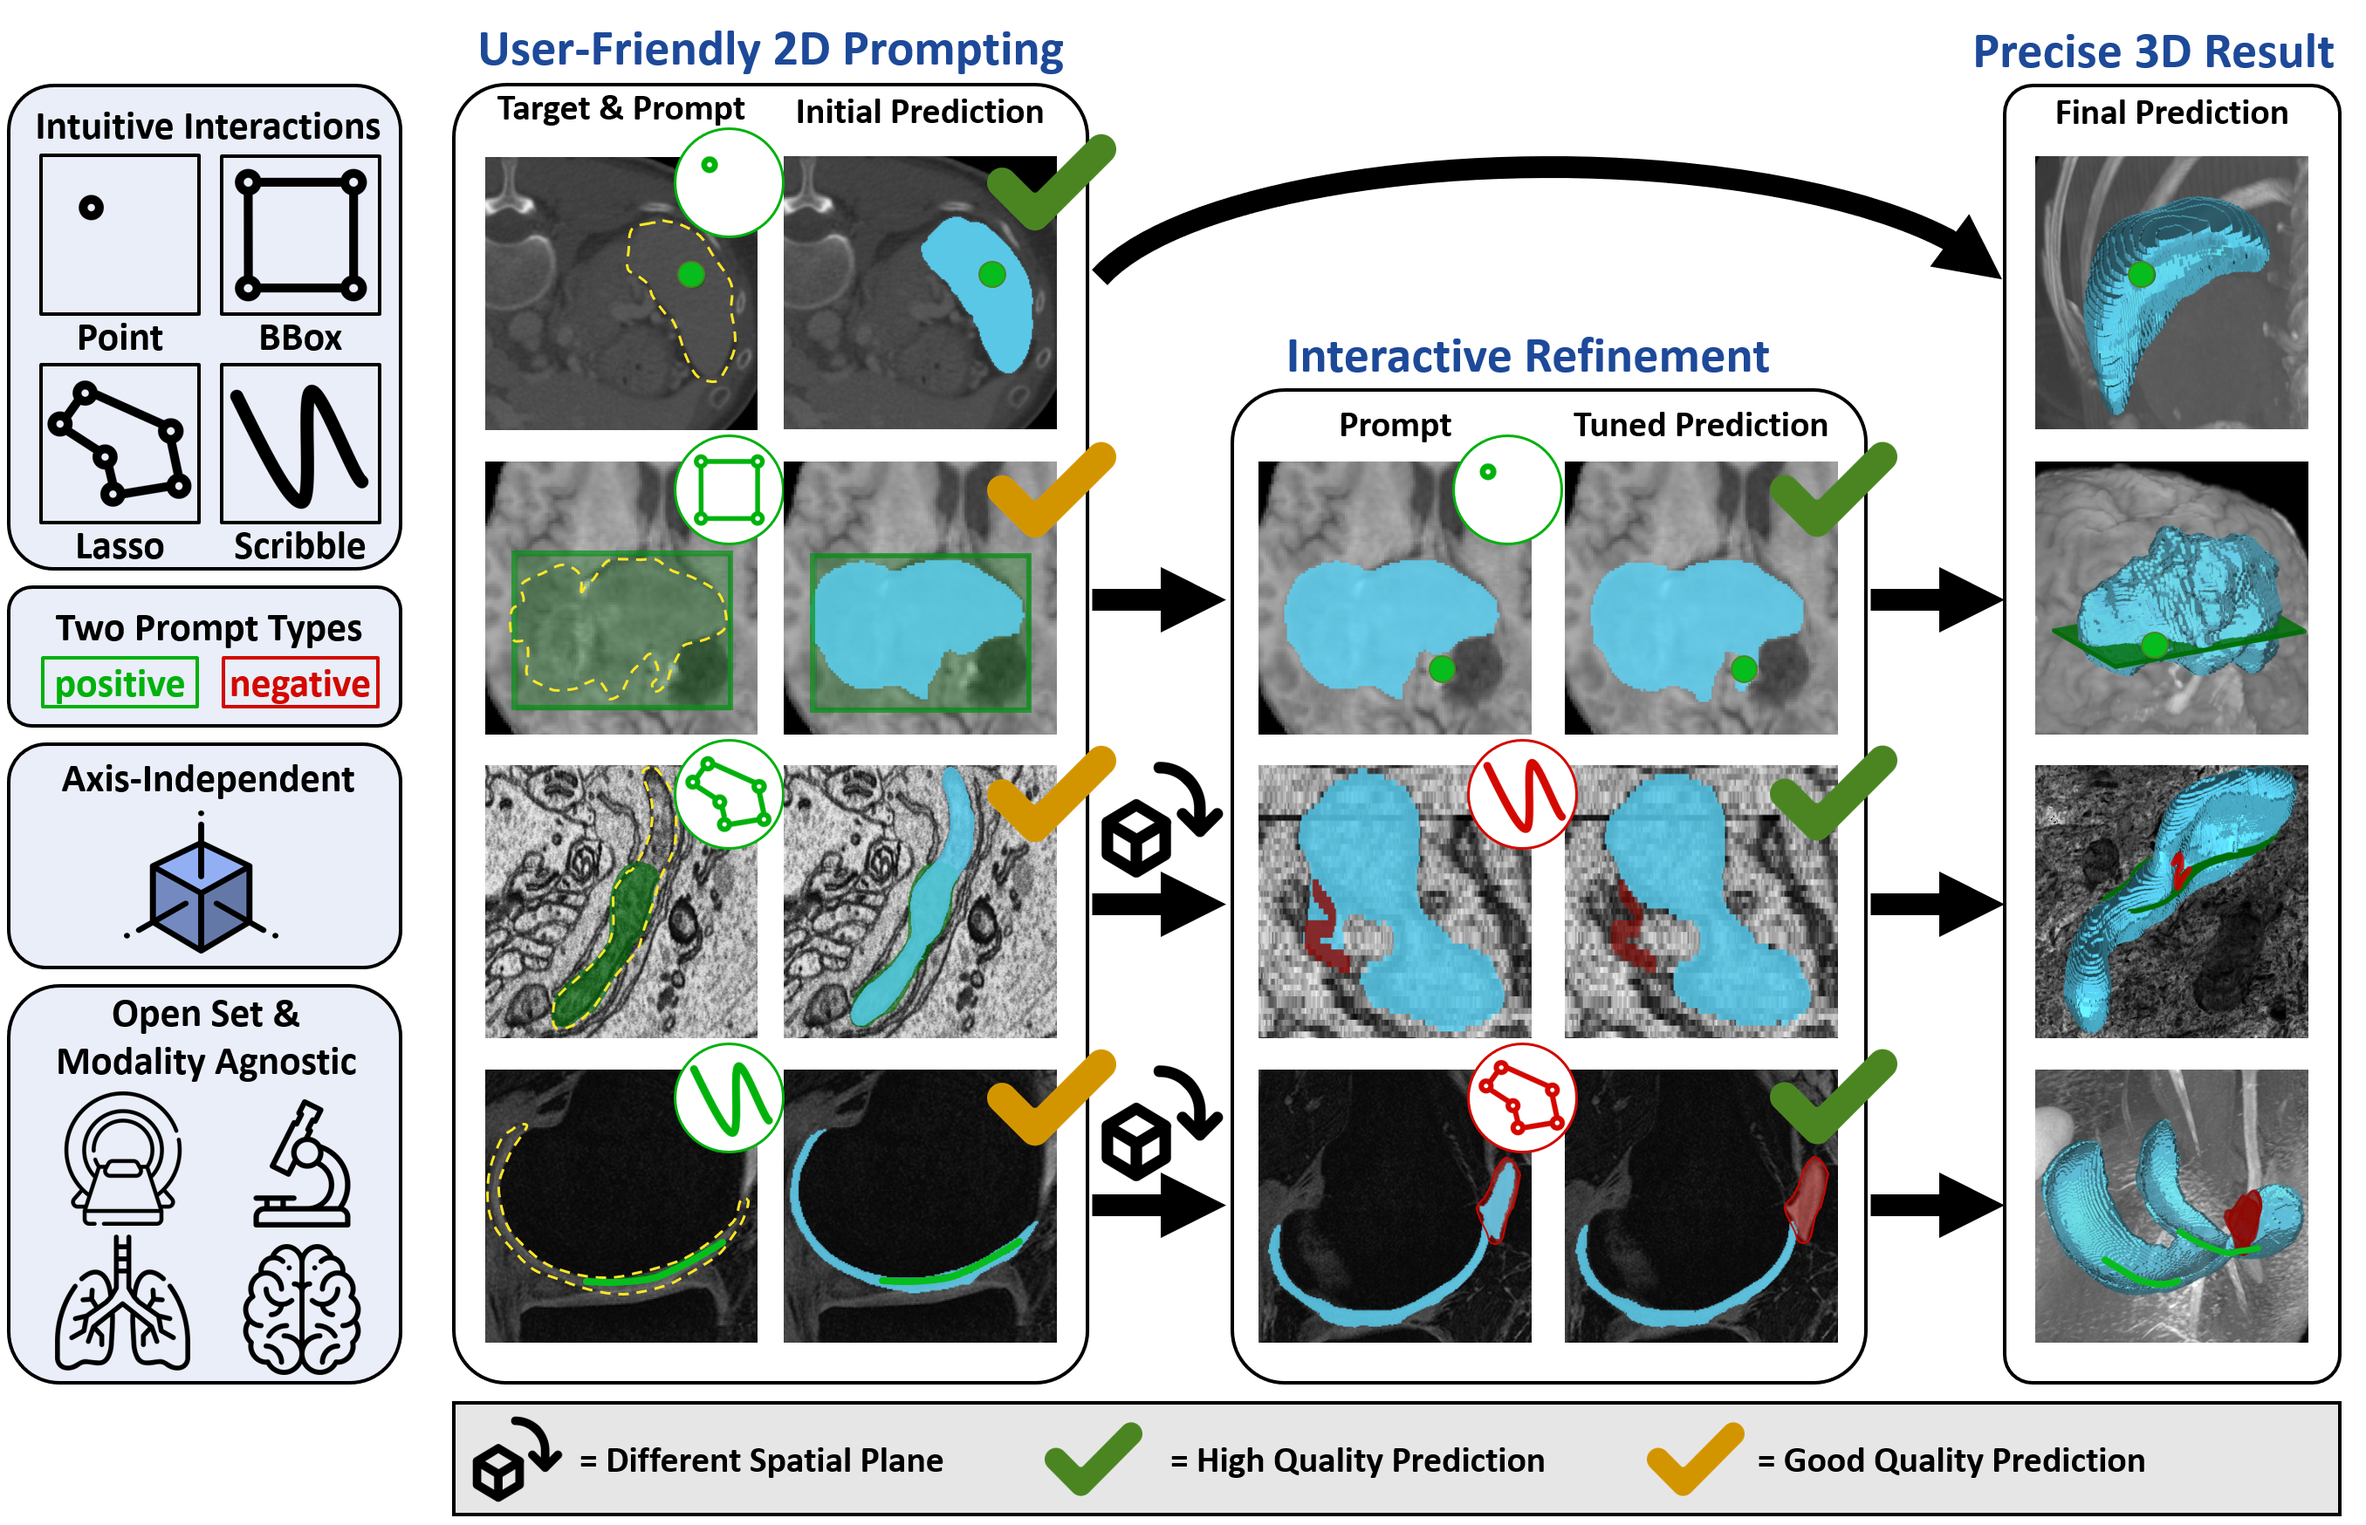
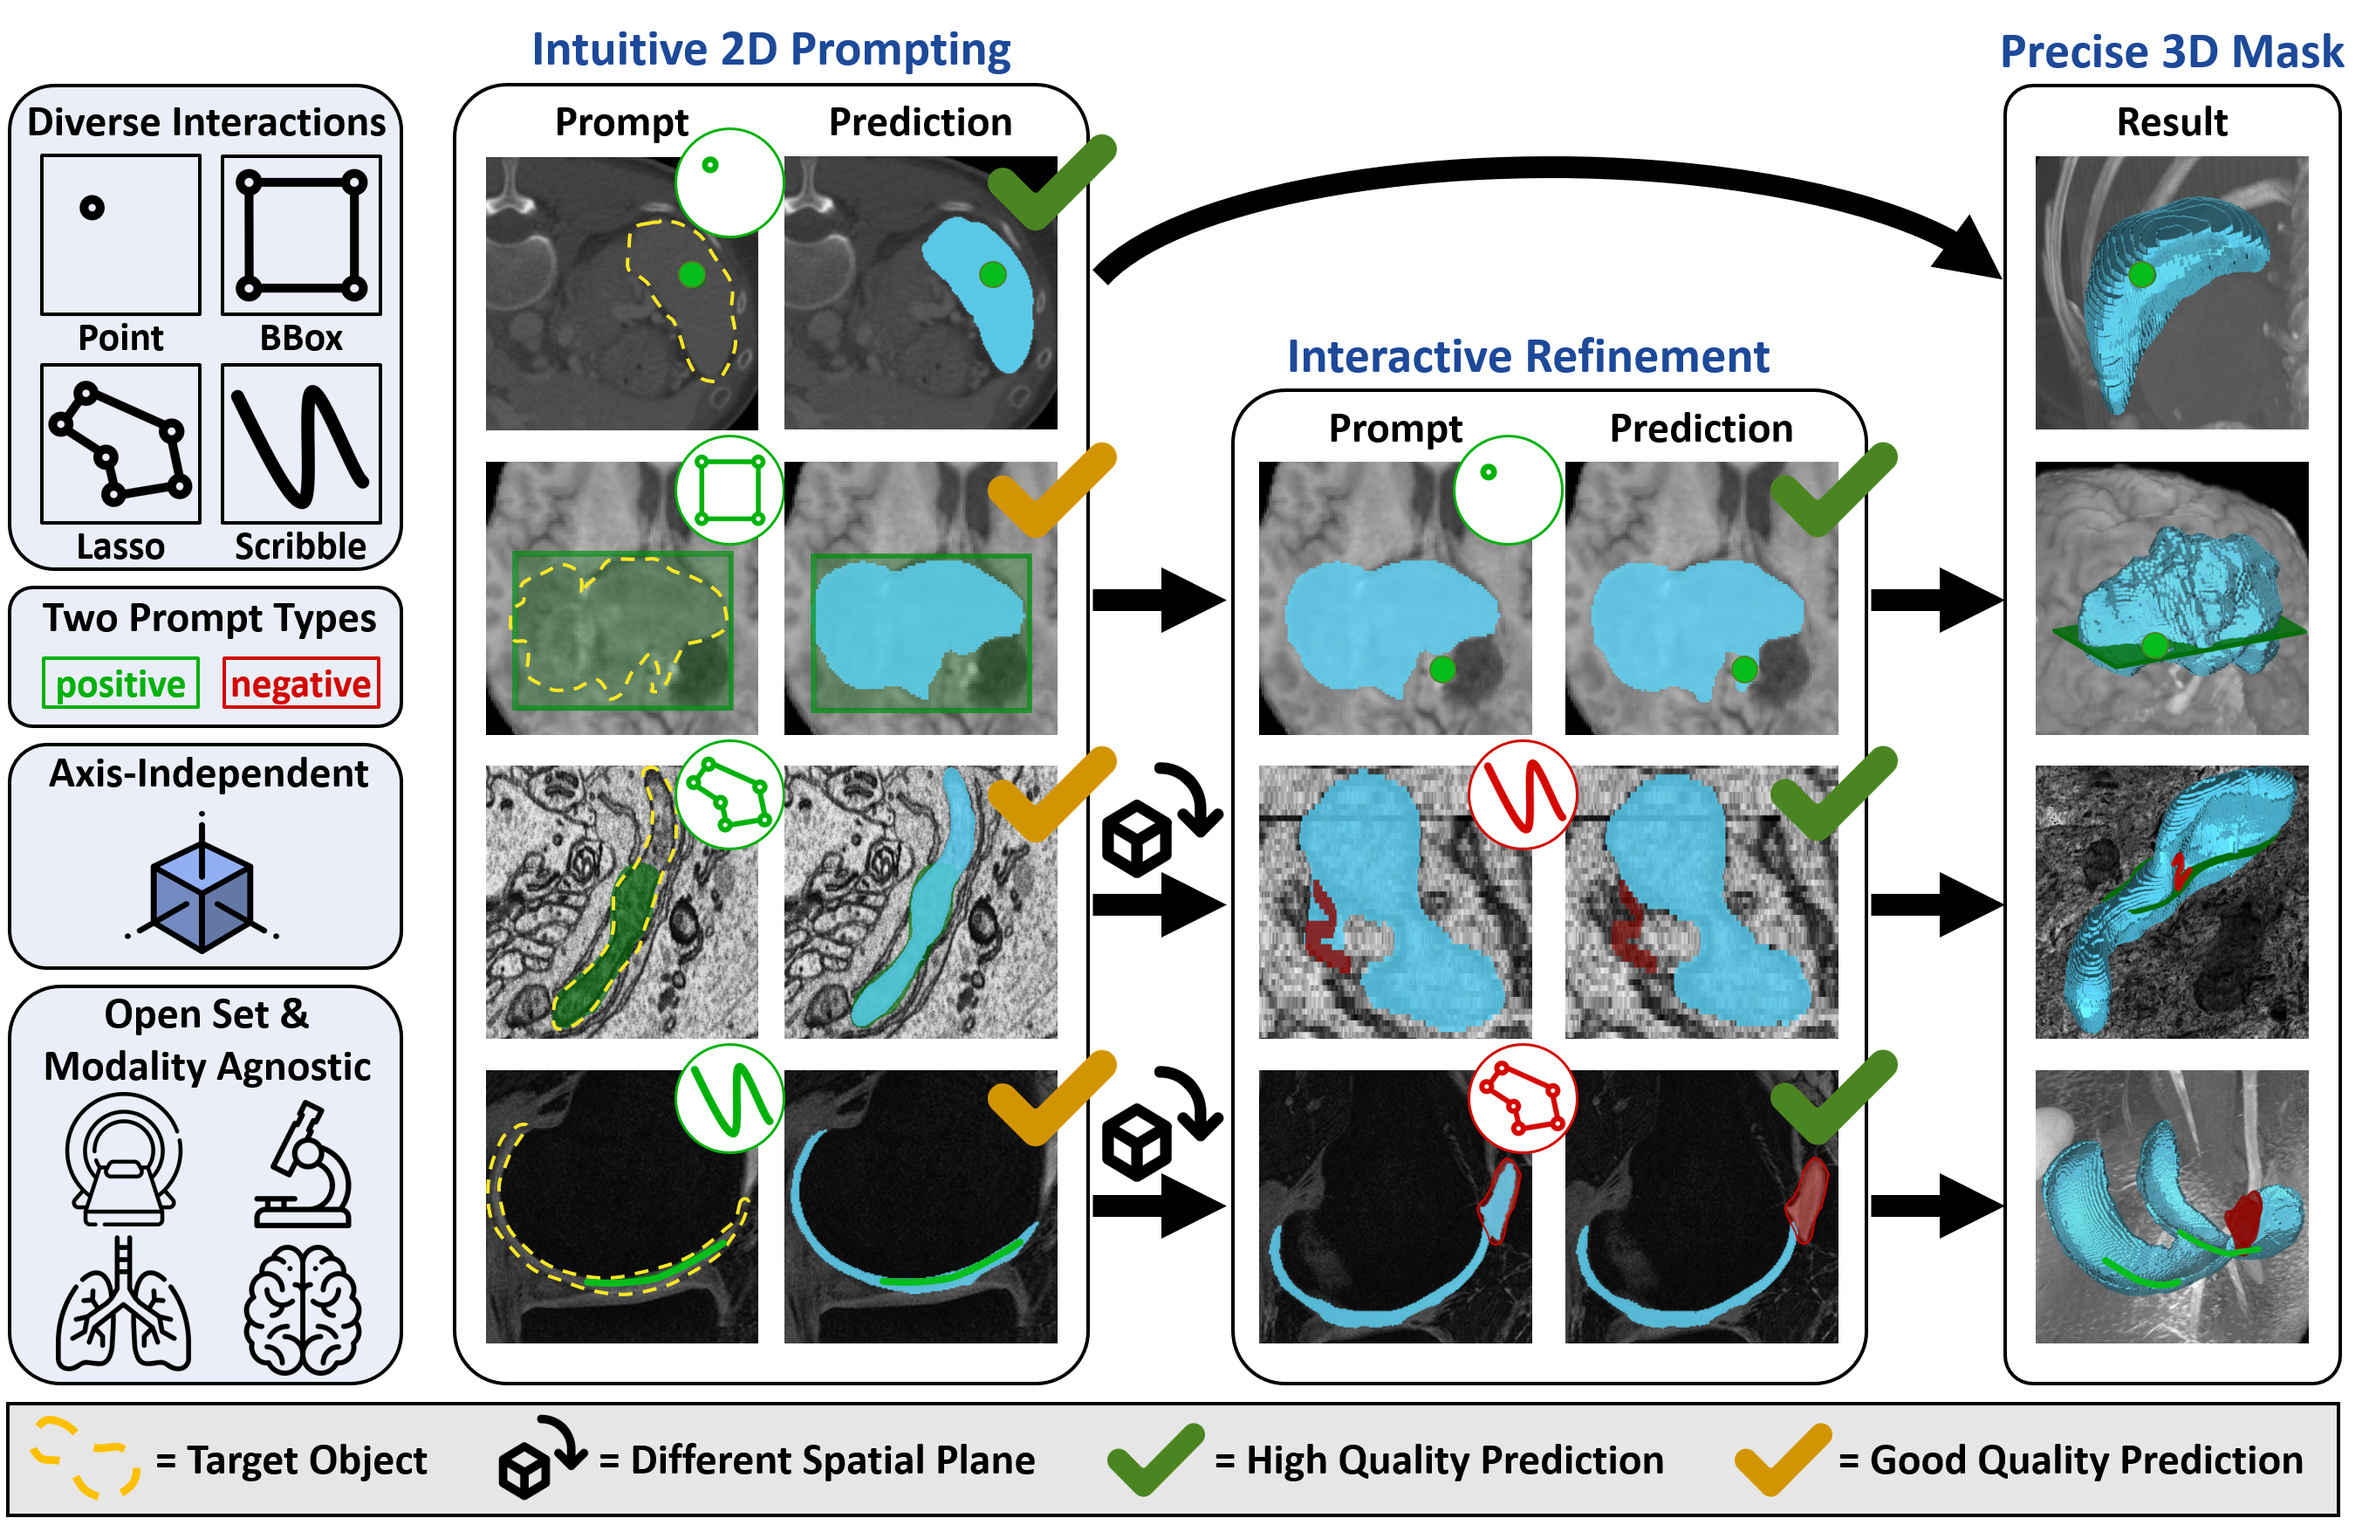
Readme + Figure update

diff --git a/src/napari_nninteractive/widget_main.py b/src/napari_nninteractive/widget_main.py
@@ -2,7 +2,6 @@ import warnings
 from pathlib import Path
 from typing import Any, Optional
 
-import nnInteractive
 import numpy as np
 import torch
 from batchgenerators.utilities.file_and_folder_operations import join, load_json
@@ -10,6 +9,7 @@ from napari.viewer import Viewer
 from nnunetv2.utilities.find_class_by_name import recursive_find_python_class
 from qtpy.QtWidgets import QWidget
 
+import nnInteractive
 from napari_nninteractive.widget_controls import LayerControls
 
 

diff --git a/README.md b/README.md
@@ -1,29 +1,34 @@
-<img src="imgs/nnInteractive_header.png">
+<img src="imgs/nnInteractive_header.png"  width="1200">
 
-# nnInteractive: Title
+# nnInteractive: Redefining 3D Promptable Segmentation
 
-Abstract
+Accurate and efficient 3D segmentation is essential for both clinical and research applications.
+While foundation models like SAM have revolutionized interactive segmentation, their 2D design and domain shift limitations make them ill-suited for 3D medical images.
+Current adaptations address some of these challenges but remain limited, either lacking volumetric awareness, offering restricted interactivity, or supporting only a small set of structures and modalities.
+Usability also remains a challenge, as current tools are rarely integrated into established imaging platforms and often rely on cumbersome web-based interfaces with restricted functionality.
+We introduce nnInteractive, the first comprehensive 3D interactive open-set segmentation method.
+It supports diverse prompts—including points, scribbles, boxes, and a novel lasso prompt—while leveraging intuitive 2D interactions to generate full 3D segmentations.
+Trained on 120+ diverse volumetric 3D datasets (CT, MRI, PET, 3D Microscopy, etc.), nnInteractive sets a new state-of-the-art in accuracy, adaptability, and usability.
+Crucially, it is the first method integrated into widely used image viewers (e.g., Napari, MITK), ensuring broad accessibility for real-world clinical and research applications.
+Extensive benchmarking demonstrates that nnInteractive far surpasses existing methods, setting a new standard for AI-driven interactive 3D segmentation.
 
-<img src="imgs/figure1_method.png">
-______________________________________________________________________
+<img src="imgs/figure1_method.png" width="1200">
 
-<!--
-Don't miss the full getting started guide to set up your new package:
-https://github.com/napari/napari-plugin-template#getting-started
+## Demo Videos
 
-and review the napari docs for plugin developers:
-https://napari.org/stable/plugins/index.html
--->
+[![Watch the video](https://img.youtube.com/vi/H_L6LL0FRoo/0.jpg)](https://www.youtube.com/watch?v=H_L6LL0FRoo)
+[![Watch the video](https://img.youtube.com/vi/YoMZ7Xv7gKI/0.jpg)](https://www.youtube.com/watch?v=YoMZ7Xv7gKI)
+[![Watch the video](https://img.youtube.com/vi/V0rqPYA3sjA/0.jpg)](https://www.youtube.com/watch?v=V0rqPYA3sjA)
 
 ## Installation
 
 ### Prerequisites
 
-You need a Linux computer with a Nvidia GPU. At least 10-11GB of VRAM.
+You need a Linux or Windows computer with a Nvidia GPU. 10GB of VRAM is recommended. Small objects should work with \<6GB.
 
 ##### 1. Create a virtual environment:
 
-Conda or pip is fine, we provide an example for conda. Python 3.10 and higher are supported
+nnInteractive supports Python 3.10+ and works with Conda, pip, or any other virtual environment. Here’s an example using Conda:
 
 ```
 conda create -n nnInteractive python=3.12
@@ -35,32 +40,20 @@ conda activate nnInteractive
 Go to the [PyTorch homepage](https://pytorch.org/get-started/locally/) and pick the right configuration.
 Note that since recently PyTorch needs to be installed via pip. This is fine to do within your conda environment.
 
-For Ubuntu with a Nvidia GPU, pick 'stable', 'Linux', 'Pip', 'Python', 'CUDA12.6':
+For Ubuntu with a Nvidia GPU, pick 'stable', 'Linux', 'Pip', 'Python', 'CUDA12.6' (if all drivers are up to date, otherwise use and older version):
 
 ```
-pip3 install torch torchvision torchaudio --index-url https://download.pytorch.org/whl/cu126
+pip3 install torch torchvision --index-url https://download.pytorch.org/whl/cu126
 ```
-
-##### 3. Install nnInteractive
-
-This needs to be updated once released
-
-```
-git clone git@git.dkfz.de:mic/personal/group8/nninteractive_inference.git
-pip install -e nninteractive_inference/
-```
-
-(this will be a pypi package so this will be `pip install nninteractive` in the future)
 
 ##### 3. Install this repository + dependencies via
 
-```
-pip install -e ./
-```
+- Download this repository by pressing the Download Repository button in the top right corner
+- Extract the .zip file, For example `unzip napari-nninteractive-DP05.zip -d ./nninteractive` on Linux
+- Navigate to the extracted folder (here `cd nninteractive`)
+- Install nnInteractive with `pip install -e .`
 
-(ideally this will also just be a pypi package)
-
-______________________________________________________________________
+**Note:** Model weights are automatically downloaded on first use. This can take up to a couple of minutes depending on your internet connection
 
 ## Getting Started
 
@@ -84,12 +77,20 @@ napari -w napari-nninteractive
 c) Run this to start napari with the plugin and open an image directly
 
 ```
-napari demo_data/AbdominalOrganSegmentation_img0004_0000.nii.gz -w napari-nninteractive
+napari demo_data/liver_145_0000.nii.gz -w napari-nninteractive
 ```
 
 # How to use
 
-<img src="imgs/gui_instuctions.png">
+## Demo Data
+
+For the review process, we have provided demo data under the following anonymous link. Feel free to use your own data as well.
+
+*https://drive.google.com/drive/folders/1Wq8IHuGwH58jWCNvHi13j4rPhwotHHP_?usp=sharing*
+
+**Note:** To open Nifti (.nii.gz, .nii) files we recommend to select napari-nifti.
+
+<img src="imgs/gui_instuctions.png" width="1200">
 
 ______________________________________________________________________
 
